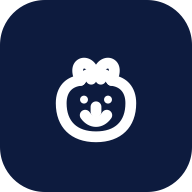
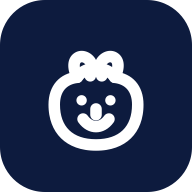
Guía de marca: vetos de Lucas (01/08)
1. Logo oficial = símbolo FINO; el grueso queda marcado como utilitario (chico/favicon),
   no versión de uso libre.
2. Wordmark = A (color-split MEDI navy / Paw azul); se elimina B.
3. Lockup horizontal/apilado: símbolo pegado al wordmark (gap reducido) — leen como unidad.
   SVGs re-exportados con el símbolo cropeado + separación ajustada.
4. Favicon = EL MISMO cachorro del logo (símbolo completo centrado, trazo grueso), no otro
   dibujo. favicon.svg + icon-192/512.png re-exportados/rasterizados.
5. Prueba de uso: dos fondos oficiales lado a lado — (a) blanco sobre navy y (b) navy/azul
   sobre pale — misma jerarquía, sin combinaciones intermedias.

Solo demo. La app no se toca.

Changed region(s): [[0.25, 0.25, 0.75, 0.8125]]

diff --git a/brand/index.html b/brand/index.html
@@ -49,8 +49,8 @@
   /* Wordmark */
   .wm{font-family:'Baloo 2',cursive;line-height:1;color:var(--navy)}
   .wm .paw{color:var(--azul)}
-  .lock{display:flex;align-items:center;gap:14px}
-  .lock.stack{flex-direction:column;gap:10px}
+  .lock{display:flex;align-items:center;gap:2px}
+  .lock.stack{flex-direction:column;gap:4px}
 
   /* Swatches */
   .sw-row{display:flex;flex-wrap:wrap;gap:10px;margin-top:10px}
@@ -106,27 +106,21 @@
       <div class="box"><svg width="96" height="96" style="color:var(--azul);stroke-width:4"><use href="#paw"/></svg><span class="cap">Fino · display</span></div>
       <div class="box navy"><svg width="96" height="96" style="color:#fff;stroke-width:4"><use href="#paw"/></svg><span class="cap">Blanco / navy</span></div>
       <div class="box mono"><svg width="96" height="96" style="color:#000;stroke-width:4"><use href="#paw"/></svg><span class="cap">Monocromo negro</span></div>
-      <div class="box"><svg width="52" height="52" style="color:var(--navy);stroke-width:8"><use href="#paw"/></svg><svg width="32" height="32" style="color:var(--navy);stroke-width:9"><use href="#paw"/></svg><span class="cap">Grueso · chico</span></div>
+      <div class="box" style="background:#eef2f8"><svg width="52" height="52" style="color:var(--navy);stroke-width:8"><use href="#paw"/></svg><svg width="32" height="32" style="color:var(--navy);stroke-width:9"><use href="#paw"/></svg><span class="cap">Utilitario · chico/favicon</span></div>
     </div>
-    <div style="margin-top:12px">
-      <a class="dl" href="assets/medipaw-simbolo.svg" download>⬇ símbolo (SVG fino)</a>
-      <a class="dl" href="assets/medipaw-simbolo-grueso.svg" download>⬇ símbolo (SVG grueso)</a>
+    <p style="font-size:.82rem;color:var(--suave);margin-top:12px"><b style="color:var(--navy)">El logo oficial es el trazo fino.</b> El trazo grueso es <b>solo utilitario</b> para tamaños chicos/favicon (no es una versión de uso libre).</p>
+    <div style="margin-top:8px">
+      <a class="dl" href="assets/medipaw-simbolo.svg" download>⬇ logo oficial (SVG fino)</a>
+      <a class="dl" href="assets/medipaw-simbolo-grueso.svg" download>⬇ utilitario (SVG grueso)</a>
     </div>
   </div>
 
   <div class="card">
-    <div class="lbl">Wordmark "MEDIPaw" · Baloo 2 — 2 tratamientos para tu veto</div>
-    <div class="grid g2" style="margin-top:12px">
-      <div class="box" style="min-height:120px">
-        <span class="wm" style="font-weight:800;font-size:2.6rem">MEDI<span class="paw">Paw</span></span>
-        <span class="cap">A · color-split (MEDI navy / Paw azul)</span>
-      </div>
-      <div class="box" style="min-height:120px">
-        <span class="wm" style="font-weight:800;font-size:2.6rem;color:var(--navy)"><span style="font-weight:600">MEDI</span>Paw</span>
-        <span class="cap">B · un color, peso-split (MEDI 600 / Paw 800)</span>
-      </div>
+    <div class="lbl">Wordmark "MEDIPaw" · Baloo 2 (oficial)</div>
+    <div class="box" style="min-height:130px;margin-top:12px">
+      <span class="wm" style="font-weight:800;font-size:2.8rem">MEDI<span class="paw">Paw</span></span>
+      <span class="cap">Color-split · MEDI navy #0D1B3E / Paw azul #1A5FB4 · Baloo 2 ExtraBold 800</span>
     </div>
-    <div class="warnbox" style="background:var(--azul-pale);border-color:#cfe0f5;color:var(--azul)">A es más expresivo y ata al azul; B es más flexible en monocromo/rotulación (un solo color). Elegí uno.</div>
   </div>
 
   <div class="card">
@@ -149,12 +143,12 @@
 <!-- 2 · FAVICON + PWA -->
 <section>
   <div class="sec-h"><span class="n">2</span><h2>Favicon + PWA</h2></div>
-  <p class="sec-sub">Con el símbolo <b>grueso</b> sobre navy, esquinas redondeadas. Generados como assets del demo (el manifest de la app no se toca todavía).</p>
+  <p class="sec-sub">Es <b>el mismo cachorro del logo</b> (versión de trazo grueso), blanco sobre navy con esquinas redondeadas. Generados como assets del demo — el manifest/íconos de la app no se tocan todavía.</p>
   <div class="grid g4">
-    <div class="box"><svg width="64" height="64" viewBox="0 0 64 64"><rect width="64" height="64" rx="15" fill="var(--navy)"/><svg x="12" y="12" width="40" height="40" style="color:#fff;stroke-width:9"><use href="#paw"/></svg></svg><span class="cap">favicon.svg</span></div>
-    <div class="box"><svg width="96" height="96" viewBox="0 0 64 64" style="border-radius:22px"><rect width="64" height="64" rx="15" fill="var(--navy)"/><svg x="12" y="12" width="40" height="40" style="color:#fff;stroke-width:9"><use href="#paw"/></svg></svg><span class="cap">icon 192/512</span></div>
-    <div class="box"><svg width="32" height="32" viewBox="0 0 64 64" style="border-radius:8px"><rect width="64" height="64" rx="15" fill="var(--navy)"/><svg x="12" y="12" width="40" height="40" style="color:#fff;stroke-width:9"><use href="#paw"/></svg></svg><span class="cap">32px (pestaña)</span></div>
-    <div class="box mono"><svg width="16" height="16" viewBox="0 0 64 64" style="border-radius:4px"><rect width="64" height="64" rx="15" fill="var(--navy)"/><svg x="12" y="12" width="40" height="40" style="color:#fff;stroke-width:10"><use href="#paw"/></svg></svg><span class="cap">16px</span></div>
+    <div class="box"><svg width="64" height="64" viewBox="0 0 64 64"><rect width="64" height="64" rx="15" fill="var(--navy)"/><svg x="8" y="8" width="48" height="48" style="color:#fff;stroke-width:8"><use href="#paw"/></svg></svg><span class="cap">favicon.svg</span></div>
+    <div class="box"><svg width="96" height="96" viewBox="0 0 64 64" style="border-radius:22px"><rect width="64" height="64" rx="15" fill="var(--navy)"/><svg x="8" y="8" width="48" height="48" style="color:#fff;stroke-width:8"><use href="#paw"/></svg></svg><span class="cap">icon 192/512</span></div>
+    <div class="box"><svg width="32" height="32" viewBox="0 0 64 64" style="border-radius:8px"><rect width="64" height="64" rx="15" fill="var(--navy)"/><svg x="8" y="8" width="48" height="48" style="color:#fff;stroke-width:8"><use href="#paw"/></svg></svg><span class="cap">32px (pestaña)</span></div>
+    <div class="box mono"><svg width="16" height="16" viewBox="0 0 64 64" style="border-radius:4px"><rect width="64" height="64" rx="15" fill="var(--navy)"/><svg x="8" y="8" width="48" height="48" style="color:#fff;stroke-width:9"><use href="#paw"/></svg></svg><span class="cap">16px</span></div>
   </div>
   <div style="margin-top:12px">
     <a class="dl" href="assets/favicon.svg" download>⬇ favicon.svg</a>
@@ -224,12 +218,19 @@
 
 <!-- 6 · PRUEBA PARED / AMBULANCIA -->
 <section>
-  <div class="sec-h"><span class="n">6</span><h2>Prueba pared / ambulancia</h2></div>
-  <p class="sec-sub">El logo a gran escala en blanco sobre navy — el uso de mayor visibilidad (fachada, móvil, uniforme).</p>
-  <div style="background:var(--navy);border-radius:20px;padding:56px 24px;display:flex;flex-direction:column;align-items:center;gap:20px">
-    <svg width="150" height="150" style="color:#fff;stroke-width:4"><use href="#paw"/></svg>
-    <span class="wm" style="font-weight:800;font-size:clamp(2.4rem,8vw,4.4rem);color:#fff"><span>MEDI</span><span style="color:var(--azul-claro)">Paw</span></span>
-    <span style="color:#aab6d4;font-size:.9rem;letter-spacing:.14em;text-transform:uppercase;font-weight:700">Plan de salud para mascotas</span>
+  <div class="sec-h"><span class="n">6</span><h2>Prueba pared / uso — dos fondos oficiales</h2></div>
+  <p class="sec-sub">Los <b>dos</b> fondos aprobados, misma jerarquía: <b>(a)</b> blanco sobre navy y <b>(b)</b> logo navy/azul sobre celeste-casi-blanco (el pale de la paleta). Son los únicos usos de gran formato — no mezclar combinaciones intermedias.</p>
+  <div class="grid g2">
+    <div style="background:var(--navy);border-radius:20px;padding:44px 20px;display:flex;flex-direction:column;align-items:center;gap:16px">
+      <svg width="120" height="120" style="color:#fff;stroke-width:4"><use href="#paw"/></svg>
+      <span class="wm" style="font-weight:800;font-size:clamp(2rem,6vw,3.2rem);color:#fff"><span>MEDI</span><span style="color:var(--azul-claro)">Paw</span></span>
+      <span style="color:#aab6d4;font-size:.72rem;letter-spacing:.14em;text-transform:uppercase;font-weight:800">(a) blanco sobre navy</span>
+    </div>
+    <div style="background:var(--azul-pale);border:1px solid #dbe7f5;border-radius:20px;padding:44px 20px;display:flex;flex-direction:column;align-items:center;gap:16px">
+      <svg width="120" height="120" style="color:var(--azul);stroke-width:4"><use href="#paw"/></svg>
+      <span class="wm" style="font-weight:800;font-size:clamp(2rem,6vw,3.2rem)"><span style="color:var(--navy)">MEDI</span><span style="color:var(--azul)">Paw</span></span>
+      <span style="color:var(--suave);font-size:.72rem;letter-spacing:.14em;text-transform:uppercase;font-weight:800">(b) navy/azul sobre pale</span>
+    </div>
   </div>
   <div class="warnbox"><b>Nota honesta:</b> este vector es la identidad <b>v1 digital</b>. Para <b>rotulación física de gran formato</b> (ambulancias, fachadas), pasá por un diseñador/rotulista usando esta guía y los SVG como base — ellos ajustan trazos, escalas y materiales para producción.</div>
 </section>
